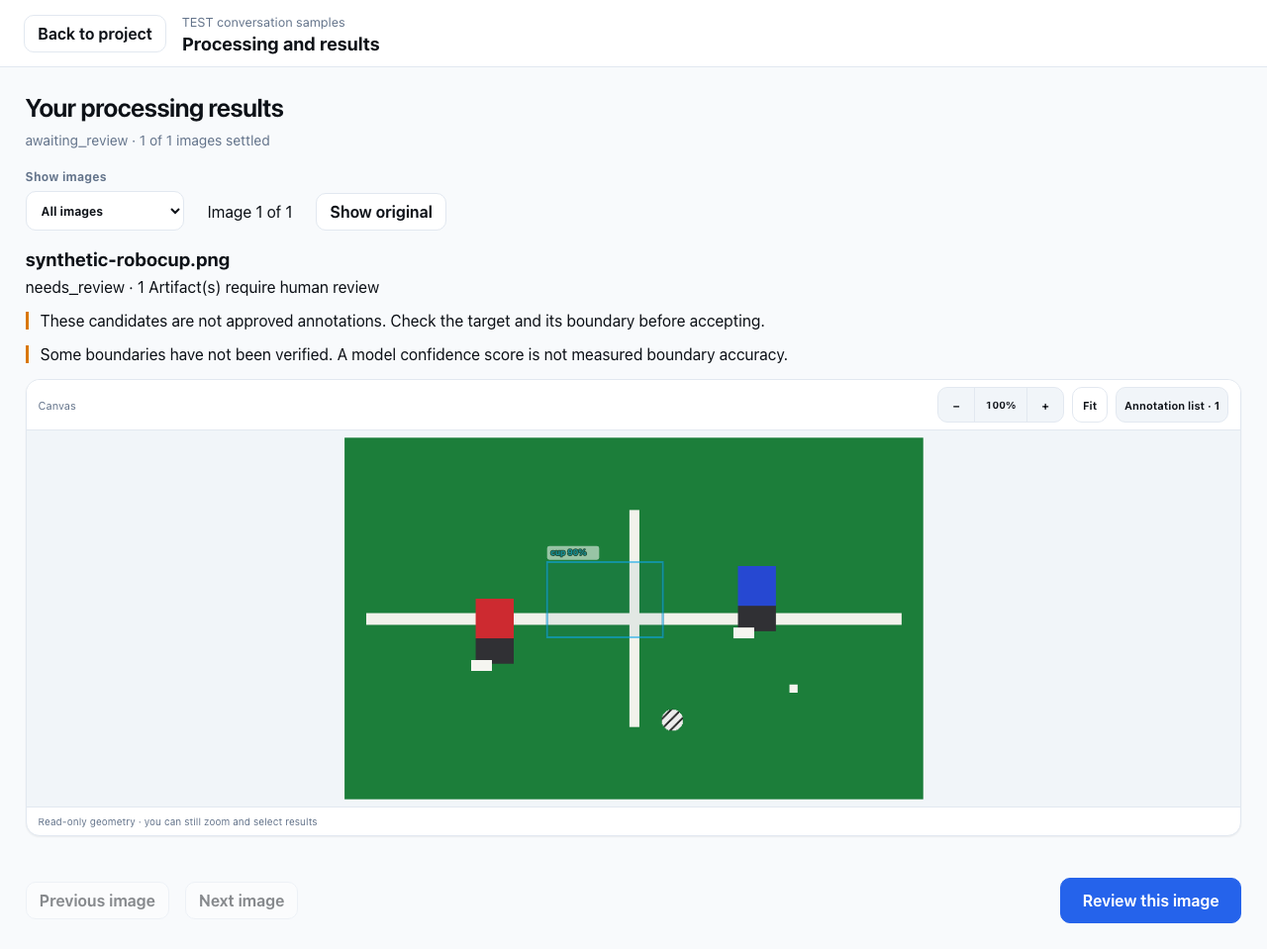
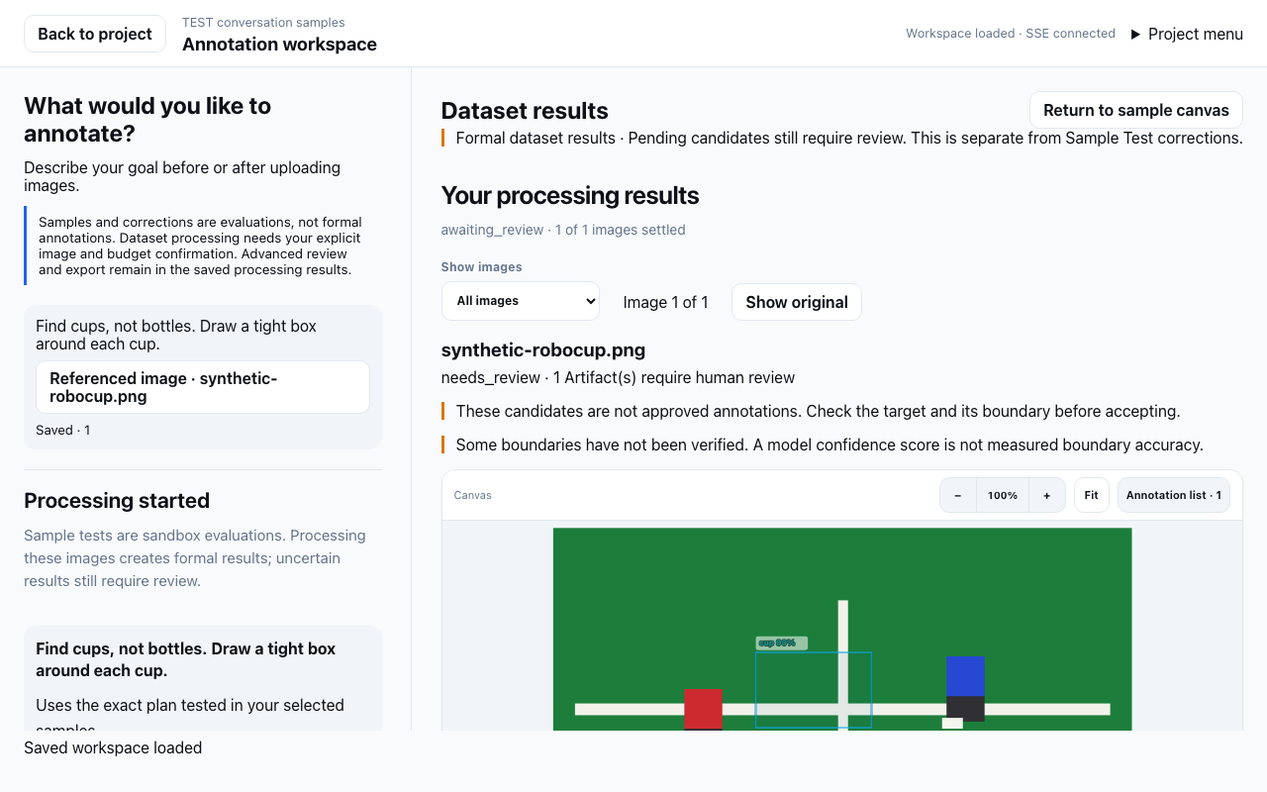
feat(workspace): embed owned formal batch results with durable canvas context

diff --git a/web/src/components/ConversationWorkspace.tsx b/web/src/components/ConversationWorkspace.tsx
@@ -1,6 +1,6 @@
 import { useCallback, useEffect, useRef, useState, type CSSProperties } from "react";
 import { api, type ProcessingReceipt } from "../api";
-import { projectWorkPath, projectBuildPath, projectBatchPath } from "../navigation";
+import { projectWorkPath, projectBuildPath, projectBatchPath, parseWorkspaceRoute, type ConversationResultsContext } from "../navigation";
 import type { ConversationMessage, ConversationMessageInput, ImageItem, ProjectSummary } from "../types";
 import "./conversation-workspace.css";
 import { ConversationSchemaCard } from "./ConversationSchemaCard";
@@ -8,13 +8,15 @@ import { ConversationSampleCanvas } from "./ConversationSampleCanvas";
 import { ConversationRepairCard } from "./ConversationRepairCard";
 import { JourneyConfirm } from "./JourneyConfirm";
 import { ConversationBatchStatus } from "./ConversationBatchStatus";
+import { ConversationBatchResults } from "./ConversationBatchResults";
 import { conversationSampleRelation } from "../conversation-context";
 import type { HumanRequest } from "../conversation-human-api";
 
 /** The journal and image importer share the existing Project; neither starts inference. */
-export function ConversationWorkspace({ project, conversationId, imageId, draftId, sampleTestId, taskId, humanRequestId, processingOperationId, onNavigate, onNavigationGuardChange }: {
+export function ConversationWorkspace({ project, conversationId, imageId, draftId, sampleTestId, taskId, humanRequestId, processingOperationId, results, onNavigate, onNavigationGuardChange }: {
   project: ProjectSummary; conversationId?: string; imageId?: string; draftId?:string; sampleTestId?:string;
   taskId?:string; humanRequestId?:string; processingOperationId?:string;
+  results?: ConversationResultsContext;
   onNavigate: (path: string) => void;
   onNavigationGuardChange: (guard?: () => boolean) => void;
 }) {
@@ -69,15 +71,17 @@ export function ConversationWorkspace({ project, conversationId, imageId, draftI
   const unsent = useRef("");
   const schemaDirty = useRef(false);
   const sampleDirty = useRef(false);
+  const formalGuard = useRef<(() => boolean) | undefined>(undefined);
+  const formalGuardChange = useCallback((guard?:()=>boolean)=>{formalGuard.current=guard;},[]);
   const sampleDirtyChange = useCallback((dirty:boolean)=>{sampleDirty.current=dirty;setRepairEditing(dirty);},[]);
   const schemaDirtyChange = useCallback((dirty: boolean) => { schemaDirty.current = dirty; }, []);
   const frozen = useRef<ConversationMessageInput | undefined>(undefined);
   const alive = useRef(true);
   const selected = images.find((image) => image.image_id === imageId) ?? (!imageId ? images[0] : undefined);
-  const referenceImage = frozen.current ? images.find((image) => image.image_id === frozen.current?.image?.image_id) : selected;
+  const referenceImage = frozen.current ? images.find((image) => image.image_id === frozen.current?.image?.image_id) : results ? images.find(image=>image.image_id===results.imageId) : selected;
   useEffect(() => { alive.current = true; return () => { alive.current = false; }; }, []);
   useEffect(() => {
-    const guard = () => selectingImage.current || (!pending.current && (!(unsent.current || schemaDirty.current || sampleDirty.current) || window.confirm("Leave with unsaved message, Schema or sample edits? Saved workspace data remains on the server.")));
+    const guard = () => (!formalGuard.current || formalGuard.current()) && (selectingImage.current || (!pending.current && (!(unsent.current || schemaDirty.current || sampleDirty.current) || window.confirm("Leave with unsaved message, Schema or sample edits? Saved workspace data remains on the server."))));
     const unload = (event: BeforeUnloadEvent) => { if (pending.current || unsent.current || schemaDirty.current || sampleDirty.current) event.preventDefault(); };
     onNavigationGuardChange(guard);
     window.addEventListener("beforeunload", unload);
@@ -104,7 +108,7 @@ export function ConversationWorkspace({ project, conversationId, imageId, draftI
   }, [project.id, conversationId]);
   async function send() {
     if (pending.current || !ready || !text.trim()) return;
-    frozen.current ??= { id: crypto.randomUUID(), text, image: selected ? { image_id: selected.image_id, sha256: selected.content_hash } : null };
+    frozen.current ??= { id: crypto.randomUUID(), text, image: referenceImage ? { image_id: referenceImage.image_id, sha256: referenceImage.content_hash } : null };
     const input = frozen.current;
     pending.current = true; setBusy(true); setError(""); setStatus("Saving message…");
     try {
@@ -137,6 +141,16 @@ export function ConversationWorkspace({ project, conversationId, imageId, draftI
     try { onNavigate(projectWorkPath(project.id, { conversationId: conversation, imageId: id, draftId, sampleTestId, taskId, humanRequestId })); }
     finally { selectingImage.current = false; }
   };
+  const showResults = (next?:ConversationResultsContext) => {
+    onNavigate(projectWorkPath(project.id,{conversationId:conversation,imageId,draftId,sampleTestId,taskId,humanRequestId,processingOperationId,results:next}));
+    setMobileView("images");
+  };
+  const processingNavigate = (path:string) => {
+    const url=new URL(path,window.location.origin);
+    const route=parseWorkspaceRoute(url.pathname,url.search);
+    if(route.kind==="projectBatch" && route.projectId===project.id)showResults({batchId:route.batchId});
+    else onNavigate(path);
+  };
   async function openSample(draft:string,test:string,image?:string){
     const request=++sampleNavigation.current;
     try{const {sample_test}=await api.workflowSampleTest(draft,undefined,test);
@@ -166,9 +180,9 @@ export function ConversationWorkspace({ project, conversationId, imageId, draftI
           }}>Referenced image · {images.find((image) => image.image_id === message.input.image?.image_id)?.name ?? message.input.image.image_id}</button>}<small>Saved · {message.sequence}</small></li>)}
         </ol>
         {conversation && draftId && sampleTestId && <section className="conversation-processing" aria-label="Process this dataset">
-          {processingOperationId ? <JourneyConfirm key={`${draftId}:${sampleTestId}`} projectId={project.id} draftId={draftId} testId={sampleTestId} imageId={imageId} operationId={processingOperationId==="preview" ? undefined : processingOperationId} expectedConversation={conversation} stayOnReceipt
+          {processingOperationId ? <JourneyConfirm key={`${draftId}:${sampleTestId}`} projectId={project.id} draftId={draftId} testId={sampleTestId} imageId={imageId} operationId={processingOperationId==="preview" ? undefined : processingOperationId} expectedConversation={conversation} viewingBatchId={results?.batchId} stayOnReceipt
             confirmationPath={id=>projectWorkPath(project.id,{conversationId:conversation,draftId,sampleTestId,imageId,taskId,humanRequestId,processingOperationId:id})}
-            backPath={projectWorkPath(project.id,{conversationId:conversation,draftId,sampleTestId,imageId,taskId,humanRequestId})} onNavigate={onNavigate} />
+            backPath={projectWorkPath(project.id,{conversationId:conversation,draftId,sampleTestId,imageId,taskId,humanRequestId})} onNavigate={processingNavigate} />
           : <button disabled={repairEditing} onClick={()=>onNavigate(projectWorkPath(project.id,{conversationId:conversation,draftId,sampleTestId,imageId,taskId,humanRequestId,processingOperationId:"preview"}))}>Review dataset processing</button>}
         </section>}
         {processing.length>0 && <section className="conversation-consent" aria-label="Saved processing tasks"><h3>Processing tasks</h3>{processing.map(operation=><article className="conversation-consent" key={operation.id}>
@@ -176,8 +190,8 @@ export function ConversationWorkspace({ project, conversationId, imageId, draftI
           <p>{operation.phase==="started" ? "Processing was started. Open its saved results for current progress." : operation.phase==="published_start_failed" ? "Plan published; processing did not start." : `Saved operation: ${operation.phase}`}</p>
           <p>{operation.authorization.image_count} images · Schema revision {operation.authorization.conversation?.schema.revision} · Plan revision {operation.authorization.revision}</p>
           {operation.error && <p role="alert">{operation.error}</p>}
-          {operation.batch_id && operation.id !== processingOperationId && <ConversationBatchStatus projectId={project.id} batchId={operation.batch_id} />}
-          {operation.batch_id && <button onClick={()=>onNavigate(projectBatchPath(project.id,operation.batch_id!))}>Open processing results</button>}
+          {operation.batch_id && operation.id !== processingOperationId && operation.batch_id!==results?.batchId && <ConversationBatchStatus projectId={project.id} batchId={operation.batch_id} />}
+          {operation.batch_id && <button onClick={()=>processingNavigate(projectBatchPath(project.id,operation.batch_id!))}>Open processing results</button>}
         </article>)}</section>}
         {conversation && <section aria-label="Human requests"><h3>Requests for your help</h3><button onClick={()=>{if(sampleDirty.current){setError("Save or undo this correction before refreshing requests.");return;}setRequestRefresh(value=>value+1);}}>Refresh requests</button>{requests.map(value=><article key={value.input.id} className="conversation-consent"><p>{value.input.question}</p><p>{value.resume_draft_id ? "Correction saved · revision Draft available" : value.status==="answered" ? "Correction saved · awaiting task continuation" : value.status}</p>{value.resume_error && <p role="alert">Correction saved, but Draft preparation failed: {value.resume_error}</p>}<button onClick={()=>void openRequest(value)}>Open requested result</button>{value.status==="answered" && <button onClick={()=>void retryContinuation(value)}>Retry Draft preparation</button>}{value.resume_draft_id && <button onClick={()=>onNavigate(projectBuildPath(project.id,"pipeline",{draftId:value.resume_draft_id!}))}>Inspect revision Draft</button>}{value.status==="pending" && <button onClick={()=>void cancelRequest(value)}>Cancel request</button>}</article>)}</section>}
         {conversation && messages[0] && <ConversationSchemaCard key={`${conversation}:${messages[0].input.id}`} project={project.id} conversation={conversation} message={messages[0].input.id} onDirtyChange={schemaDirtyChange} onAssistance={assistanceChanged} onSample={(draft,test,image)=>void openSample(draft,test,image)} />}
@@ -194,10 +208,12 @@ export function ConversationWorkspace({ project, conversationId, imageId, draftI
         onPointerDown={(event) => event.currentTarget.setPointerCapture(event.pointerId)}
         onPointerMove={(event) => { if (!event.currentTarget.hasPointerCapture(event.pointerId)) return; const bounds = root.current?.getBoundingClientRect(); if (bounds) setWidth(Math.round(Math.max(25, Math.min(50, (event.clientX - bounds.left) / bounds.width * 100)))); }} />
       <section className="conversation-image-panel" aria-label="Project images">
+        {results ? <><div className="conversation-image-tools"><h2>Dataset results</h2><button onClick={()=>showResults()}>Return to sample canvas</button></div>{!requestsReady ? <p role="status">Loading saved processing tasks…</p> : processing.some(operation=>operation.batch_id===results.batchId) ? <ConversationBatchResults key={results.batchId} project={project} context={results} onSelect={showResults} onNavigate={onNavigate} onNavigationGuardChange={formalGuardChange} /> : <p role="alert">This Batch is not linked to this conversation. No other result was substituted.</p>}</> : <>
         {activeRequest && (requestRelation==="baseline" || requestRelation==="comparison") && <aside className="conversation-consent" aria-label="Sample origin"><p>{requestRelation==="comparison" ? "Sample from the revised plan. The original correction remains separate; improvement has not been established." : "Another image from the original sample. The requested correction belongs to a different image."}</p><button onClick={()=>void openRequest(activeRequest)}>Return to original correction</button></aside>}
         <div className="conversation-image-tools"><h2>{images.length ? `${images.length} images` : "Your images"}</h2><label className="conversation-upload">Add images<input type="file" accept="image/png,image/jpeg" multiple disabled={busy || !ready} onChange={(event) => { const files = Array.from(event.currentTarget.files ?? []); event.currentTarget.value = ""; void upload(files); }} /></label></div>
         {humanRequestId && (!activeRequest || requestRelation==="unrelated") ? <p role="status">{requestsReady ? "Human request not found in this task. No other result was substituted." : "Loading saved human request…"}</p> : draftId && sampleTestId ? <ConversationSampleCanvas project={project.id} draft={draftId} test={sampleTestId} image={selected} humanRequest={requestRelation==="subject" ? activeRequest : undefined} onAnswered={updateRequest} onDirtyChange={sampleDirtyChange} onOpen={(draft,test,image)=>void openSample(draft,test,image)} /> : imageId && !selected && ready ? <p role="alert">This image is not available in this Project. Select an existing image below.</p> : selected ? <figure className="conversation-image"><img src={selected.url} alt={selected.name} /><figcaption>{selected.name} · Original image · No annotation overlay</figcaption></figure> : <div className="conversation-image-empty"><h3>Start with your own images</h3><p>PNG or JPEG · up to 25 MB per image. Files are uploaded to this AnnotAgent server, not sent to a model.</p></div>}
         <nav className="conversation-thumbnails" aria-label="Select image">{images.map((image) => <button key={image.image_id} aria-label={image.name} aria-current={image.image_id === selected?.image_id ? "true" : undefined} onClick={() => openImage(image.image_id)}><img loading="lazy" src={image.url} alt="" /><span>{image.name}</span></button>)}</nav>
+        </>}
       </section>
     </div>
     <p className="conversation-status" role="status">{status || (ready ? "Saved workspace loaded" : "Loading saved workspace…")}</p>

diff --git a/web/src/navigation.ts b/web/src/navigation.ts
@@ -1,4 +1,7 @@
 export type BuildStep = "data" | "labels" | "pipeline" | "test";
+export interface ConversationResultsContext {
+  batchId: string; imageId?: string; status?: string; annotationId?: string; canvasView?: "original";
+}
 export type SettingsSection =
   | "providers"
   | "models"
@@ -11,7 +14,7 @@ export type WorkspaceRoute =
   | { kind: "home"; canonicalPath: string }
   | { kind: "projects"; canonicalPath: string; create?: boolean }
   | { kind: "project"; canonicalPath: string; projectId: string }
-  | { kind: "conversation"; canonicalPath: string; projectId: string; conversationId?: string; imageId?: string; draftId?: string; sampleTestId?: string; taskId?: string; humanRequestId?: string; processingOperationId?:string }
+  | { kind: "conversation"; canonicalPath: string; projectId: string; conversationId?: string; imageId?: string; draftId?: string; sampleTestId?: string; taskId?: string; humanRequestId?: string; processingOperationId?:string; results?: ConversationResultsContext }
   | { kind: "journey"; canonicalPath: string; projectId: string; scene: "images" | "goal" | "samples" | "model" | "confirm" | "revise"; draftId?: string; sampleTestId?: string; imageId?: string; agentSessionId?: string; sampleOperationId?: string; processingOperationId?: string; sampleView?: "authorize"; modelPurpose?: "vision"; returnScene?: "revise" }
   | { kind: "export"; canonicalPath: string; projectId: string }
   | {
@@ -183,12 +186,19 @@ export function projectJourneyPath(projectId: string, scene: "images" | "goal" |
   return `/projects/${encodeURIComponent(projectId)}/task/${scene}${params.size ? `?${canonicalSearch(params)}` : ""}`;
 }
 
-export function projectWorkPath(projectId: string, context: { conversationId?: string; imageId?: string; draftId?: string; sampleTestId?: string; taskId?:string; humanRequestId?:string; processingOperationId?:string } = {}): string {
+export function projectWorkPath(projectId: string, context: { conversationId?: string; imageId?: string; draftId?: string; sampleTestId?: string; taskId?:string; humanRequestId?:string; processingOperationId?:string; results?: ConversationResultsContext } = {}): string {
   const params = new URLSearchParams();
   if (context.conversationId) params.set("conversation", context.conversationId);
   if (context.taskId) params.set("task", context.taskId);
   if (context.humanRequestId) params.set("request", context.humanRequestId);
   if (context.processingOperationId) params.set("processing", context.processingOperationId);
+  if (context.results) {
+    params.set("batch", context.results.batchId);
+    if (context.results.imageId) params.set("result_image", context.results.imageId);
+    if (context.results.status) params.set("result_status", context.results.status);
+    if (context.results.annotationId) params.set("result_annotation", context.results.annotationId);
+    if (context.results.canvasView) params.set("result_view", context.results.canvasView);
+  }
   if (context.draftId) params.set("draft", context.draftId);
   if (context.sampleTestId) params.set("test", context.sampleTestId);
   if (context.imageId) params.set("image", context.imageId);
@@ -332,7 +342,8 @@ export function parseWorkspaceRoute(
     const projectId = decodePathSegment(conversation[1]);
     if (!projectId) return { kind: "notFound", invalidPath: clean, canonicalPath: clean };
     const context = { conversationId: params.get("conversation") || undefined, imageId: params.get("image") || undefined, draftId: params.get("draft") || undefined, sampleTestId: params.get("test") || undefined, taskId: params.get("task") || undefined, humanRequestId: params.get("request") || undefined, processingOperationId:params.get("processing") || undefined };
-    return { kind: "conversation", projectId, ...context, canonicalPath: projectWorkPath(projectId, context) };
+    const results: ConversationResultsContext | undefined = params.get("batch") ? { batchId: params.get("batch")!, imageId: params.get("result_image") || undefined, status: params.get("result_status") || undefined, annotationId: params.get("result_annotation") || undefined, canvasView: params.get("result_view") === "original" ? "original" : undefined } : undefined;
+    return { kind: "conversation", projectId, ...context, results, canonicalPath: projectWorkPath(projectId, { ...context, results }) };
   }
   const journey = clean.match(/^\/projects\/([^/]+)\/task\/(images|goal|samples|model|confirm|revise)$/);
   if (journey) {

diff --git a/web/e2e/conversation-samples.spec.ts b/web/e2e/conversation-samples.spec.ts
@@ -325,10 +325,35 @@ test(`conversation ${scenario} authorizes HTTP fixture samples and restores edit
   await page.screenshot({path:`../docs/execution/conversational-workspace/processing-linked-${scenario}.png`,fullPage:true});
   const savedWorkspaceUrl=page.url();
   await processingCard.getByRole("button",{name:"Open processing results",exact:true}).click();
-  await expect(page).toHaveURL(new RegExp(`/projects/${project}/batches/${started.batch_id}`));
+  await expect(page).toHaveURL(new RegExp(`batch=${started.batch_id}`));
   await expect(page.getByRole("region",{name:"Processing results",exact:true})).toBeVisible();
-  await page.screenshot({path:`../docs/execution/conversational-workspace/processing-results-${scenario}.png`,fullPage:true,animations:"disabled"});
+  expect(new URL(page.url()).pathname).toBe(`/projects/${project}/work`);
+  expect(new URL(page.url()).searchParams.get("test")).toBe(selection.sample_test_id);
+  const formalResults=page.getByRole("region",{name:"Processing results",exact:true});
+  await formalResults.getByRole("button",{name:"Show original",exact:true}).click();
+  await expect(page).toHaveURL(/result_view=original/);
+  await page.reload();
+  await expect(formalResults.getByRole("button",{name:"Show results",exact:true})).toBeVisible();
+  expect(new URL(page.url()).searchParams.get("result_image")).toBeTruthy();
+  await formalResults.getByRole("button",{name:"Show results",exact:true}).click();
+  const formalUrl=page.url();
+  if(requiresReview) {
+    await formalResults.getByRole("button",{name:"Review this image",exact:true}).click();
+    await expect(page).toHaveURL(new RegExp(`/projects/${project}/review/`));
+  } else {
+    await formalResults.getByRole("button",{name:"Export confirmed results",exact:true}).click();
+    await expect(page).toHaveURL(new RegExp(`/projects/${project}/export`));
+  }
   await page.goBack();
+  await expect(page).toHaveURL(formalUrl);
+  await expect(formalResults).toBeVisible();
+  await page.screenshot({path:`../docs/execution/conversational-workspace/processing-results-${scenario}.png`,fullPage:true,animations:"disabled"});
+  const foreignUrl=new URL(page.url());foreignUrl.searchParams.set("batch",crypto.randomUUID());
+  await page.goto(foreignUrl.toString());
+  await expect(page.getByRole("alert").filter({hasText:"This Batch is not linked to this conversation"})).toBeVisible();
+  await expect(page.getByRole("region",{name:"Processing results",exact:true})).toHaveCount(0);
+  await page.goto(formalUrl);
+  await page.getByRole("button",{name:"Return to sample canvas",exact:true}).click();
   await expect(page).toHaveURL(savedWorkspaceUrl);
   await expect(page.getByRole("region",{name:"Saved processing tasks",exact:true})).toBeVisible();
   expect(await (await request.get(`${taskRoot}/processing-operations`)).json()).toHaveLength(1);

diff --git a/web/src/components/JourneyConfirm.tsx b/web/src/components/JourneyConfirm.tsx
@@ -4,10 +4,11 @@ import { api, type ConfirmProcessingRequest, type ProcessingAuthorization, type 
 import { t } from "../i18n";
 import { projectBatchPath, projectJourneyPath } from "../navigation";
 
-export function JourneyConfirm({ projectId, draftId, testId, imageId, operationId, onNavigate, confirmationPath, backPath, stayOnReceipt=false, expectedConversation }: {
+export function JourneyConfirm({ projectId, draftId, testId, imageId, operationId, onNavigate, confirmationPath, backPath, stayOnReceipt=false, expectedConversation, viewingBatchId }: {
   projectId: string; draftId?: string; testId?: string; imageId?: string; operationId?: string;
   onNavigate: (path: string, replace?: boolean) => void;
   confirmationPath?: (id:string) => string; backPath?:string; stayOnReceipt?:boolean; expectedConversation?:string;
+  viewingBatchId?:string;
 }) {
   const [preview, setPreview] = useState<ProcessingAuthorization>();
   const [receipt, setReceipt] = useState<ProcessingReceipt>();
@@ -96,7 +97,7 @@ export function JourneyConfirm({ projectId, draftId, testId, imageId, operationI
     </div>}
     {busy && <p role="status">{t("Saving the confirmed plan and starting processing…")}</p>}
     {(error || receipt?.error) && <p role="alert">{error || receipt?.error}</p>}
-    {stayOnReceipt && receipt?.batch_id && <ConversationBatchStatus projectId={projectId} batchId={receipt.batch_id} />}
+    {stayOnReceipt && receipt?.batch_id && receipt.batch_id!==viewingBatchId && <ConversationBatchStatus projectId={projectId} batchId={receipt.batch_id} />}
     <footer className="journey-actions"><button onClick={() => navigate.current(routing.current.backPath ?? projectJourneyPath(projectId, "samples", context))}>{t("Back to samples")}</button>
       {operationId && <button disabled={busy} onClick={() => setReload((value) => value + 1)}>{t("Reload task status")}</button>}
       {receipt?.phase === "started" && receipt.batch_id ? <button className="primary" onClick={()=>navigate.current(projectBatchPath(projectId,receipt.batch_id!))}>{t("Open processing results")}</button> : <button className="primary" disabled={busy || (!operationId && (!preview || !confirmed))} onClick={submit}>{t(operationId ? receipt?.phase === "published_start_failed" ? "Retry starting processing" : "Retry this confirmed action" : "Confirm and start processing")}</button>}

diff --git a/web/src/components/ConversationBatchResults.tsx b/web/src/components/ConversationBatchResults.tsx
@@ -1,0 +1,32 @@
+import { api } from "../api";
+import { parseWorkspaceRoute, projectBatchPath, type ConversationResultsContext } from "../navigation";
+import { queryKeys } from "../queryCache";
+import { useRouteQuery } from "../useRouteQuery";
+import type { ProjectSummary } from "../types";
+import { JourneyBatch } from "./JourneyBatch";
+
+/** Same terminal projection and editor as the canonical Batch page, with a workspace URL. */
+export function ConversationBatchResults({ project, context, onSelect, onNavigate, onNavigationGuardChange }: {
+  project: ProjectSummary; context: ConversationResultsContext;
+  onSelect: (context: ConversationResultsContext) => void;
+  onNavigate: (path: string) => void;
+  onNavigationGuardChange: (guard?: () => boolean) => void;
+}) {
+  const query = useRouteQuery(queryKeys.batch(context.batchId), signal => api.batch(context.batchId, signal));
+  const batch = query.data?.batch;
+  if (!batch || batch.id !== context.batchId || batch.project_id !== project.id) return <section role="status">
+    <p>{query.loading ? "Loading formal processing results…" : query.error?.message ?? "This Batch does not belong to this Project or is unavailable. No other result was substituted."}</p>
+    {query.error && <button onClick={() => void query.retry().catch(() => undefined)}>Reload results</button>}
+  </section>;
+  const navigate = (path: string) => {
+    const url = new URL(path, window.location.origin);
+    const route = parseWorkspaceRoute(url.pathname, url.search);
+    if (route.kind === "projectBatch" && route.projectId === project.id && route.batchId === context.batchId) {
+      onSelect({ batchId: route.batchId, imageId: route.imageId, status: route.status, annotationId: route.annotationId, canvasView: route.canvasView });
+    } else onNavigate(path);
+  };
+  return <div className="conversation-formal-results">
+    <p className="journey-risk">Formal dataset results · Pending candidates still require review. This is separate from Sample Test corrections.</p>
+    <JourneyBatch project={project} batch={batch} route={{kind:"projectBatch",projectId:project.id,...context,canonicalPath:projectBatchPath(project.id,batch.id,context)}} onNavigate={navigate} onReload={query.retry} onNavigationGuardChange={onNavigationGuardChange} />
+  </div>;
+}

diff --git a/web/src/components/ConversationBatchResults.test.ts b/web/src/components/ConversationBatchResults.test.ts
@@ -1,0 +1,20 @@
+import { describe, expect, it } from "vitest";
+import { parseWorkspaceRoute, projectWorkPath, routeFocusKey } from "../navigation";
+
+describe("conversation formal results context",()=>{
+  it("keeps sample and formal result selection separate across refresh",()=>{
+    const context={conversationId:"c",draftId:"d",sampleTestId:"test",imageId:"sample-image",taskId:"task",humanRequestId:"help",processingOperationId:"receipt",results:{batchId:"batch",imageId:"formal-image",status:"needs_review",annotationId:"candidate",canvasView:"original" as const}};
+    const path=projectWorkPath("p",context);
+    const url=new URL(path,"http://localhost");
+    const route=parseWorkspaceRoute(url.pathname,url.search);
+    expect(route).toMatchObject({kind:"conversation",projectId:"p",...context,canonicalPath:path});
+    expect(routeFocusKey(route)).toBe("conversation:p");
+    const back=projectWorkPath("p",{...context,results:undefined});
+    expect(new URL(back,"http://localhost").searchParams.get("image")).toBe("sample-image");
+    expect(back).not.toContain("result_image");
+  });
+  it("does not interpret detached result parameters or unknown views",()=>{
+    expect(parseWorkspaceRoute("/projects/p/work","?result_image=i&result_view=debug")).toMatchObject({kind:"conversation",results:undefined});
+    expect(parseWorkspaceRoute("/projects/p/work","?batch=b&result_view=debug")).toMatchObject({results:{batchId:"b",canvasView:undefined}});
+  });
+});

diff --git a/web/src/App.tsx b/web/src/App.tsx
@@ -678,7 +678,7 @@ export function App() {
           />
         )}
         {loaded && route.kind === "conversation" && (
-          selectedProject ? <ConversationWorkspace key={route.projectId} project={selectedProject} conversationId={route.conversationId} imageId={route.imageId} draftId={route.draftId} sampleTestId={route.sampleTestId} taskId={route.taskId} humanRequestId={route.humanRequestId} processingOperationId={route.processingOperationId} onNavigate={navigate} onNavigationGuardChange={setNavigationGuard} />
+          selectedProject ? <ConversationWorkspace key={route.projectId} project={selectedProject} conversationId={route.conversationId} imageId={route.imageId} draftId={route.draftId} sampleTestId={route.sampleTestId} taskId={route.taskId} humanRequestId={route.humanRequestId} processingOperationId={route.processingOperationId} results={route.results} onNavigate={navigate} onNavigationGuardChange={setNavigationGuard} />
             : <NotFoundPage invalidPath={route.canonicalPath} onNavigate={navigate} />
         )}
         {loaded && route.kind === "journey" && (

diff --git a/web/src/components/conversation-workspace.css b/web/src/components/conversation-workspace.css
@@ -85,3 +85,7 @@
   line-height: 1.5;
   overflow-wrap: anywhere;
 }
+.conversation-formal-results { display: grid; gap: 16px; min-width: 0; }
+.conversation-formal-results .journey-scene { padding: 0; }
+.conversation-formal-results .journey-intro h2 { font-size: 1.35rem; line-height: 1.3; }
+.conversation-formal-results .journey-actions { position: static; display: flex; flex-wrap: wrap; gap: 10px; }

diff --git a/docs/execution/CONVERSATIONAL_WORKSPACE_STATUS.md b/docs/execution/CONVERSATIONAL_WORKSPACE_STATUS.md
@@ -1302,3 +1302,37 @@ Final styled conversation rerun passed **3/3** in `/tmp/annotagent-guided-e2e-28
 No Live inference, real Workspace changes, push or remote changes. Full-workspace Rust
 regressions, real control lifecycle browser evidence, default entry, broader conversation
 intent/reference handling, formal Review/export embedding and M4 usability audits remain.
+
+### M3 continuation — formal results on the conversation canvas (2026-09-08)
+
+`Open processing results` now replaces the workspace's right-hand sample canvas with the
+existing `JourneyBatch` terminal results presentation. It does not navigate to global history
+or create another result engine. The same result projection, original/results switch, status
+filters, annotation list, geometry-risk notice and supported controls are retained. An explicit
+banner distinguishes formal dataset candidates from Sandbox sample corrections. Actual Review
+and Export remain the canonical existing pages, one action away; the editor is not yet embedded
+and full formal acceptance/export round-trip is still required.
+
+The typed conversation route carries separate Batch result context (Batch, result image, filter,
+selected candidate, original/results view), preserving original sample image, Draft, Test, task
+and request keys. Returning to the sample removes only result context. Switching result views
+does not steal page heading focus. The wrapper requires the Batch to be linked to this owned
+conversation's processing receipts, then checks server Project identity; invalid links show an
+explicit unavailable message, not another canvas. Formal missing-annotation editor guards compose
+with the conversation dirty guard. Messages cannot silently refer to the sample while formal
+results are displayed: without an explicitly selected formal image they are Project-level.
+
+The confirmation/history observer yields while its Batch is on the canvas, avoiding duplicate
+controls/pollers. Existing query cache, result services and coordinator remain authoritative.
+No model call, publish, control mutation or acceptance is caused by viewing/reloading results.
+
+Tests: Web typecheck, **112/112 unit tests**, production build and diff/format checks passed.
+Final isolated TEST browser run `/tmp/annotagent-guided-e2e-3353`: **3/3 passed** for normal
+classification, bbox and review classification. It verifies formal results stay on `/work`,
+same-image original/results restoration on reload, Review/Export navigation plus Back to the
+exact result URL, invalid Batch link rejection, and return to the original sample URL. Reviewed
+`processing-results-bbox.png` showing the existing final projection and quality risks. Synthetic
+fixture evidence has no semantic-quality meaning; no Live model or human usability test ran.
+Long conversation stacks and viewport density remain M4 work. No push or real Workspace changes.
+Next: formal Review/save/return and export completion, remaining conversation orchestration and
+default entry, then full acceptance audit. The overall objective is not yet complete.
